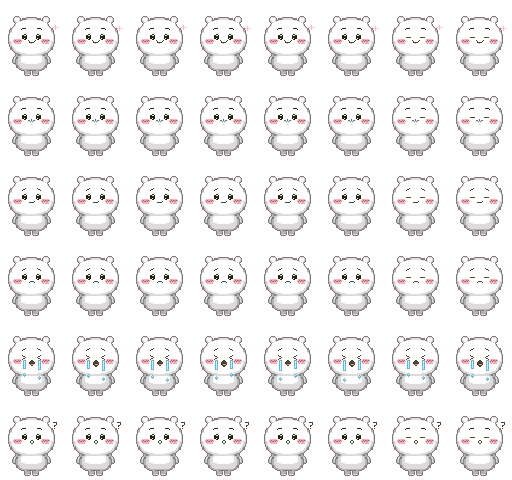
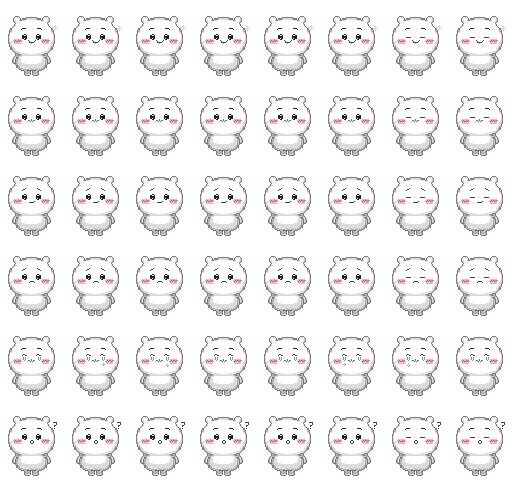
PET-1: Replace sobbing streams with subtle welled eye tears

diff --git a/Sources/ChiikawaPet/PixelPetView.swift b/Sources/ChiikawaPet/PixelPetView.swift
@@ -143,15 +143,14 @@ class PixelPetView: NSView {
         }
         let column: Int
         if mood == .crying {
-            column = animationFrame % 8
+            column = (animationFrame / 3) % 8
         } else if animationFrame % 40 >= 38 {
             column = 6 + animationFrame % 2
         } else {
             column = animationFrame % 6
         }
         let bob = (animationFrame / 8) % 4 == 2 ? -1 : 0
-        let shake = mood == .crying ? (animationFrame % 4 == 0 ? -1 : animationFrame % 4 == 2 ? 1 : 0) : 0
-        context.translateBy(x: CGFloat(shake), y: CGFloat(bob) + Self.spriteSize.height)
+        context.translateBy(x: 0, y: CGFloat(bob) + Self.spriteSize.height)
         context.scaleBy(x: 1, y: -1)
         let frame = Self.frames[character]![row * 8 + column]
         context.draw(frame, in: CGRect(origin: .zero, size: Self.spriteSize))

diff --git a/Sources/ChiikawaPet/Usage.swift b/Sources/ChiikawaPet/Usage.swift
@@ -69,7 +69,7 @@ enum PetMood: String, Sendable {
         case .happy: "오늘도 같이 힘내자"
         case .uneasy: "조금씩 아껴 쓰자…"
         case .sad: "이제 얼마 안 남았어…"
-        case .crying: "후에엥… 잠깐 쉬자"
+        case .crying: "울먹… 잠깐 쉬었다 가자"
         case .unknown: "연결하면 기분을 알려줄게"
         }
     }
